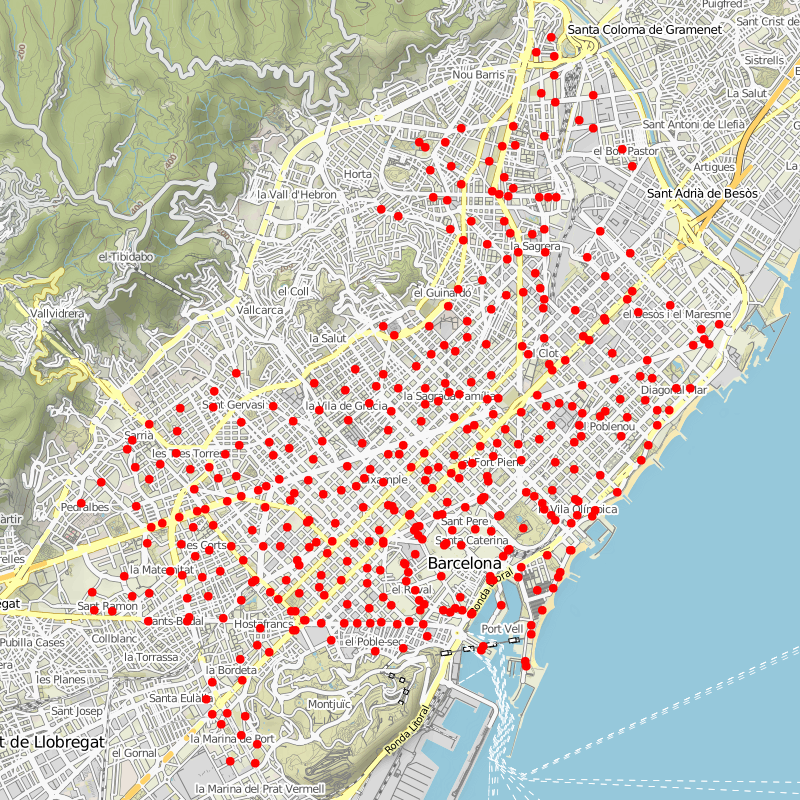
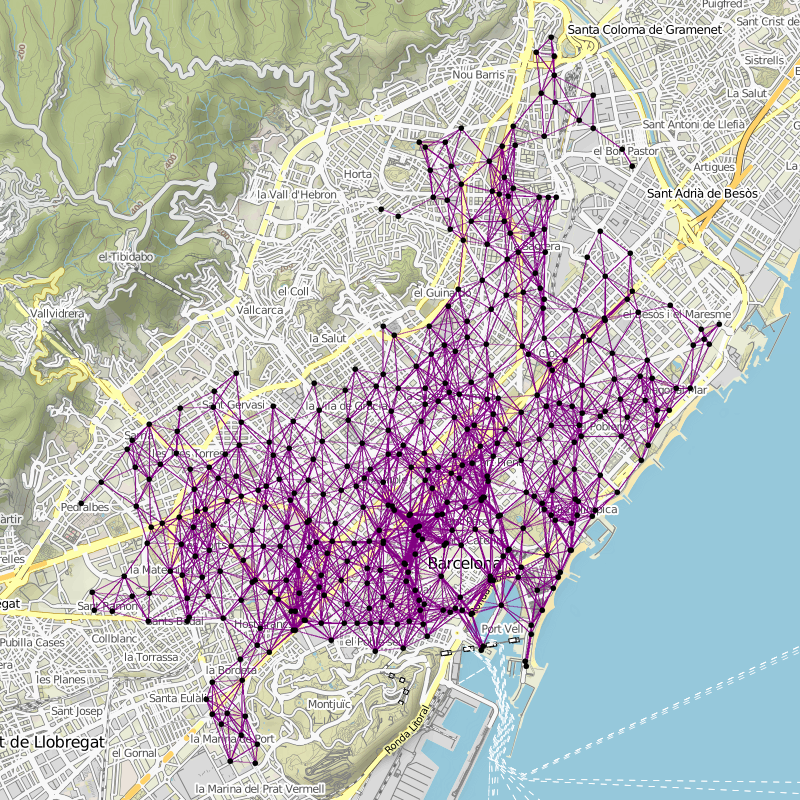
commit

Changed region(s): [[0.0938, 0.0312, 0.9062, 0.9688], [0.7812, 0.1875, 0.8125, 0.2188], [0.4688, 0.25, 0.5, 0.2812]]

diff --git a/data.py b/data.py
@@ -13,33 +13,37 @@ def create_graph():
 
     G = nx.Graph()
     for st in bicing.itertuples():
-        print (st.name)
-        G.add_node([st.lat,st.lon])
+        G.add_node((st.lon,st.lat))
+
     for node in list(G.node(data=True)):
         for node2 in list(G.node(data=True)):
-<<<<<<< HEAD
-            distance = haversine(node, node2)
-            if (distance <= 0.600 and distance != 0):
-                if not G.has_edge(node2, node):
-=======
-            distance = haversine((node[1]['lon'], node[1]['lat']), (node2[1]['lon'], node2[1]['lat']))
-            if(distance <= 1.000 and distance != 0):
-                if not G.has_edge(node2[0], node[0]):
->>>>>>> 055800293b7408c71bc0bebe3e9d2b907a0bd1b0
+            distance = haversine(node[0],node2[0])
+            if (distance <= 0.800 and distance != 0):
+                if (not G.has_edge(node[0], node2[0])):
                     G.add_edge(node[0], node2[0], distance=distance)
     return G
 
-'''
+
 def print_all(G):
     m = StaticMap(800, 800)
     for node in list(G.node(data=True)):
-        marker = CircleMarker((node[1]['lon'], node[1]['lat']), 'red', 8)
+        marker = CircleMarker((node[0]), 'black', 5)
         m.add_marker(marker)
+
+    for edge in list(G.edges()):
+        '''
+        coords = (edge[0][0],edge[0][1],edge[1][0],edge[1][1])
+        '''
+        coords = (edge[0], edge[1])
+        line = Line(coords, 'purple', 1)
+        m.add_line(line)
+
     print(G.number_of_edges(), G.number_of_nodes())
     image = m.render()
     image.save('mapa.png')
 
 
+'''
 
 def addressesTOcoordinates(addresses):
 
@@ -68,14 +72,11 @@ def addressesTOcoordinates(addresses):
     except:
         return None
 
-
+'''
 
 def shortest_path(G, adresses):
     #funcio que la direccio es un node conegut.(g.has_node("dirreccio"))
-    i = len(adresses)
-    j = adresses.find(",")
-    origen_adress = adresses[0:j]
-    desti_adress = adresses [j+1:i]
+
     coords = addressesTOcoordinates(adresses)
     # aqui un error estaria gucci
     print (origen_adress, desti_adress)
@@ -116,6 +117,7 @@ def shortest_path(G, adresses):
 
 '''
 G = create_graph()
+print_all(G)
 
 '''
 shortest_path(create_graph(),"BRUC 45, Passeig de Gràcia 24")
